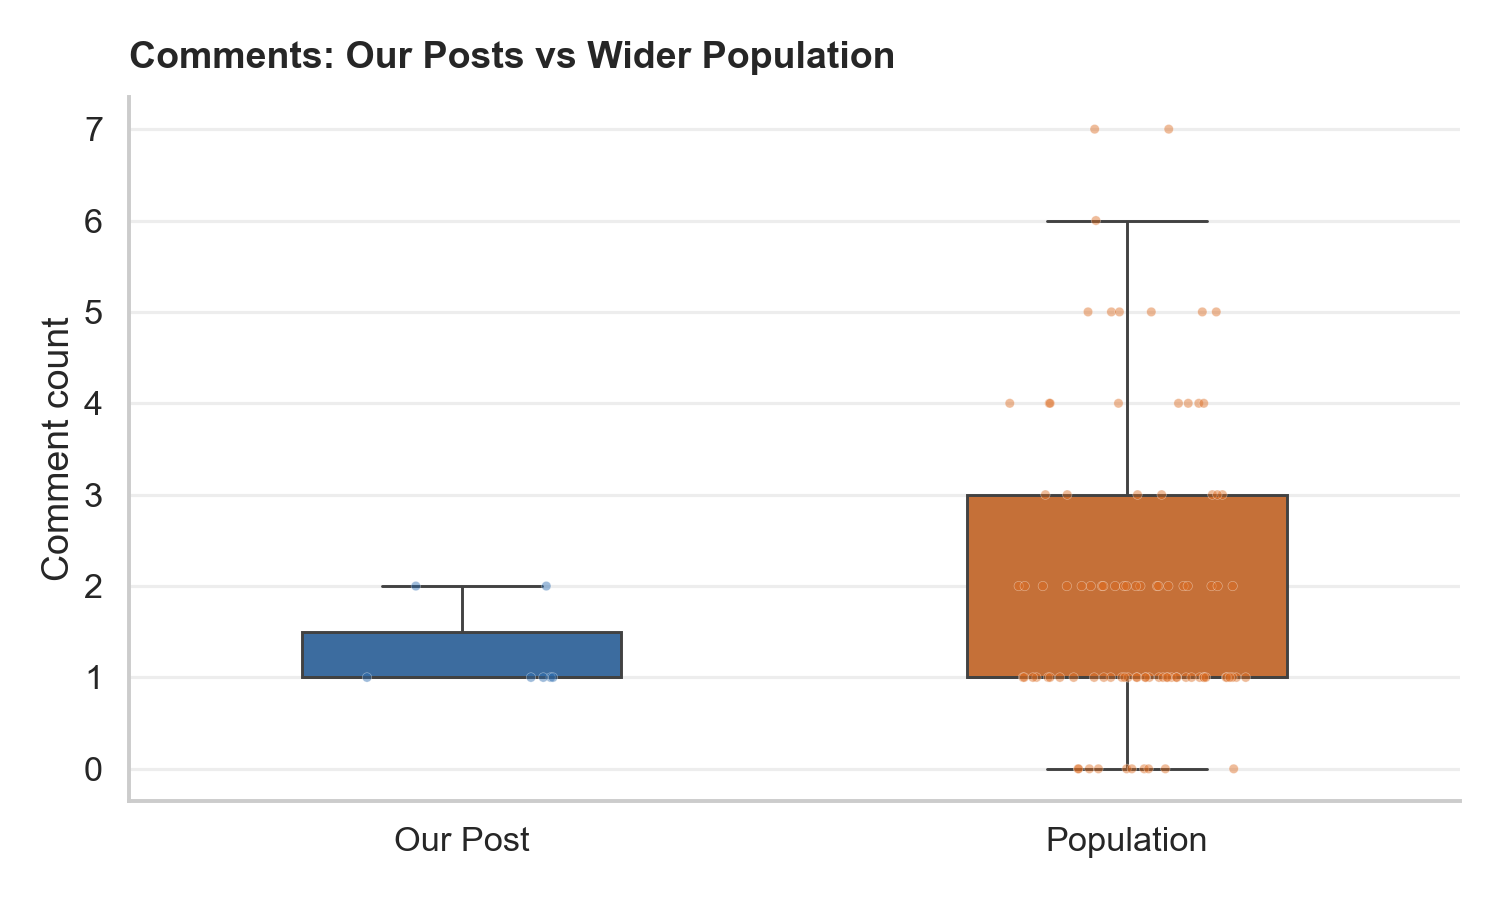
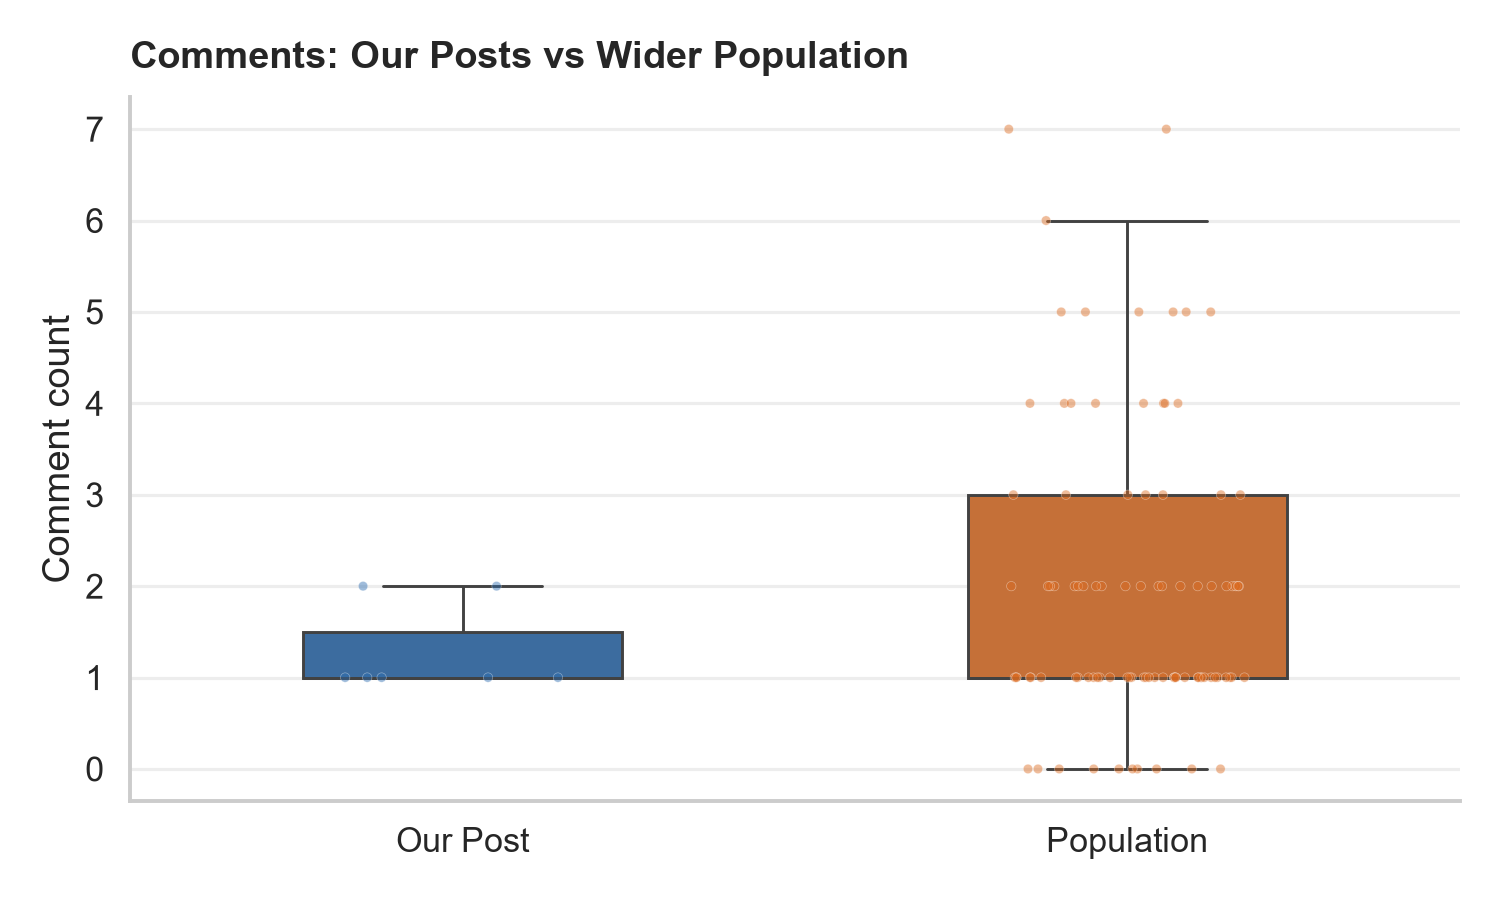
fix: make engagement visualizations deterministic

diff --git a/notebooks/engagement_analysis.py b/notebooks/engagement_analysis.py
@@ -37,7 +37,10 @@ from sp_digital_marketing.data import (  # noqa: E402
     prepare_group_posts,
     validate_dataframes,
 )
-from sp_digital_marketing.plots import save_comparison_figures  # noqa: E402
+from sp_digital_marketing.plots import (  # noqa: E402
+    save_comparison_figures,
+    seed_plot_randomness,
+)
 
 
 # %% [markdown]
@@ -61,6 +64,7 @@ GREEN = "#2F855A"
 RED = "#C53030"
 PURPLE = "#6B46C1"
 PALETTE = [BLUE, ORANGE, GREEN, RED, PURPLE]
+seed_plot_randomness()
 
 
 def save_figure(figure: plt.Figure, filename: str) -> Path:
@@ -151,6 +155,7 @@ figure, axes = plt.subplots(2, 2, figsize=(12, 8))
 axes = axes.flatten()
 
 for axis, metric, color in zip(axes, performance_metrics, PALETTE[:4], strict=True):
+    display_metric = "Engagement Rate" if metric == "EngagementRate" else metric
     sns.barplot(
         data=group_posts,
         x="Type",
@@ -171,8 +176,9 @@ for axis, metric, color in zip(axes, performance_metrics, PALETTE[:4], strict=Tr
         ax=axis,
     )
     label_bars(axis)
-    axis.set_title(f"Average {metric}")
+    axis.set_title(f"Average {display_metric}")
     axis.set_xlabel("")
+    axis.set_ylabel(display_metric)
     axis.grid(axis="x", visible=False)
 
 figure.suptitle("Selected Group Posts: Performance by Post Type", fontsize=16, weight="bold")
@@ -355,9 +361,11 @@ for output_path in save_comparison_figures(data):
 
 # %%
 top_by_views = posts.sort_values("Views", ascending=False).head(5)
-top_by_engagement = posts.assign(Engagement=posts["Comments"] + posts["Reactions"]).sort_values(
-    "Engagement", ascending=False
-).head(5)
+top_by_engagement = (
+    posts.assign(Engagement=posts["Comments"] + posts["Reactions"])
+    .sort_values("Engagement", ascending=False)
+    .head(5)
+)
 
 print("Top 5 posts by views")
 print(top_by_views[["Member", "Comments", "Reactions", "Views"]].to_string(index=False))

diff --git a/tests/test_analysis_helpers.py b/tests/test_analysis_helpers.py
@@ -1,3 +1,5 @@
+from hashlib import sha256
+
 import pandas as pd
 
 from sp_digital_marketing.data import (
@@ -6,6 +8,7 @@ from sp_digital_marketing.data import (
     load_all_data,
     prepare_group_posts,
 )
+from sp_digital_marketing.plots import save_comparison_figures
 
 
 def test_prepare_group_posts_adds_expected_metrics() -> None:
@@ -35,3 +38,14 @@ def test_population_comparison_labels_group_and_population() -> None:
     assert set(comparison["Dataset"]) == {"Our Post", "Population"}
     assert len(comparison.loc[comparison["Member"] == GROUP_MEMBER]) == 7
     assert len(comparison.loc[comparison["Dataset"] == "Population"]) == 93
+
+
+def test_comparison_figures_are_deterministic(tmp_path) -> None:
+    data = load_all_data()
+    first_paths = save_comparison_figures(data, tmp_path / "first")
+    second_paths = save_comparison_figures(data, tmp_path / "second")
+
+    first_hashes = [sha256(path.read_bytes()).hexdigest() for path in first_paths]
+    second_hashes = [sha256(path.read_bytes()).hexdigest() for path in second_paths]
+
+    assert first_hashes == second_hashes

diff --git a/src/sp_digital_marketing/plots.py b/src/sp_digital_marketing/plots.py
@@ -5,6 +5,7 @@ from __future__ import annotations
 from pathlib import Path
 
 import matplotlib.pyplot as plt
+import numpy as np
 import seaborn as sns
 
 from sp_digital_marketing.config import FIGURES_DIR
@@ -14,10 +15,17 @@ COMPARISON_PALETTE = {
     "Our Post": "#2B6CB0",
     "Population": "#DD6B20",
 }
+PLOT_RANDOM_SEED = 42
+
+
+def seed_plot_randomness() -> None:
+    """Reset plotting jitter to the project's reproducible random seed."""
+    np.random.seed(PLOT_RANDOM_SEED)
 
 
 def save_comparison_figures(data: ProjectData, output_dir: Path = FIGURES_DIR) -> list[Path]:
     """Save boxplot comparison figures and return the created paths."""
+    seed_plot_randomness()
     output_dir.mkdir(parents=True, exist_ok=True)
     comparison = build_population_comparison(data.posts)
 

diff --git a/docs/methodology.md b/docs/methodology.md
@@ -12,7 +12,9 @@ The analysis combines exploratory notebook work with reusable Python helpers. Th
 4. Add manually curated metadata for post date and post type where the raw export does not provide those fields.
 5. Calculate engagement and engagement rate.
 6. Compare selected group posts against the wider observed population.
-7. Export final boxplot figures to `reports/figures/`.
+7. Reset plotting jitter to random seed 42 and export the final figures to
+   `reports/figures/` so repeated runs in the same dependency environment are
+   byte-for-byte reproducible.
 
 ## Assumptions
 
